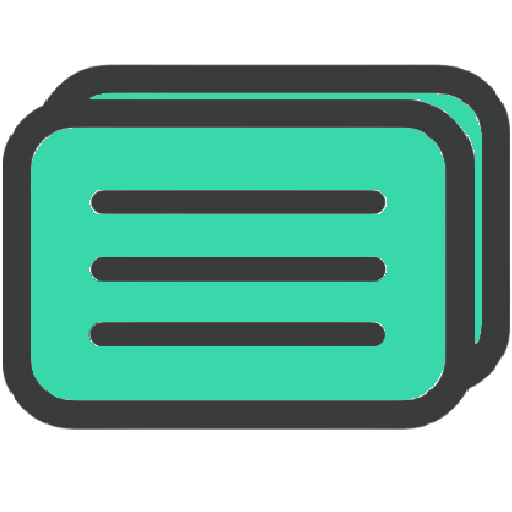
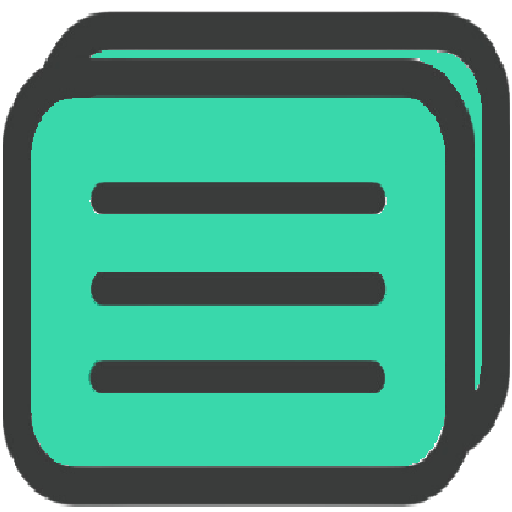
update

diff --git a/flutter_service_worker.js b/flutter_service_worker.js
@@ -50,14 +50,14 @@ const RESOURCES = {"assets/AssetManifest.bin": "22883cf4e5ba2a86c25d348004f83da9
 "canvaskit/skwasm.js": "95f16c6690f955a45b2317496983dbe9",
 "canvaskit/skwasm.wasm": "d1fde2560be92c0b07ad9cf9acb10d05",
 "canvaskit/skwasm.worker.js": "51253d3321b11ddb8d73fa8aa87d3b15",
-"favicon.png": "cb2950dae61c3525ba40535f12f2d0b0",
+"favicon.png": "b167cb4770540761cf0abcda2ee8e2fb",
 "flutter.js": "6b515e434cea20006b3ef1726d2c8894",
-"icons/Icon-192.png": "5a948d0d5390cf7d8eae904e5b41ade6",
-"icons/Icon-512.png": "55fa56e20ff32af3eab52e862508f3f6",
-"icons/Icon-maskable-192.png": "5a948d0d5390cf7d8eae904e5b41ade6",
-"icons/Icon-maskable-512.png": "55fa56e20ff32af3eab52e862508f3f6",
-"index.html": "794ec85761e260e4a4b3f960ed9b7c2a",
-"/": "794ec85761e260e4a4b3f960ed9b7c2a",
+"icons/Icon-192.png": "c4439ee4b520e2cbf29537753f9ccdfe",
+"icons/Icon-512.png": "90ce4b228fcc4eb3b7e7dd20a76b733d",
+"icons/Icon-maskable-192.png": "512eba9c77572a130437540828ee1718",
+"icons/Icon-maskable-512.png": "eb1379c9ee930baa43afb383bee30f7a",
+"index.html": "619113b9cbb008b5ac12246ef351a5be",
+"/": "619113b9cbb008b5ac12246ef351a5be",
 "main.dart.js": "6cfbef375af8e9ecdd1b42d729fb5353",
 "manifest.json": "4375be6d0ed3936c0fc984dc51b5241b",
 "version.json": "ffbc6c1d013605d384c87eb1896f5956"};

diff --git a/index.html b/index.html
@@ -34,7 +34,7 @@
 
   <script>
     // The value below is injected by flutter build, do not touch.
-    const serviceWorkerVersion = "130591448";
+    const serviceWorkerVersion = "2518922437";
   </script>
   <!-- This script adds the flutter initialization JS code -->
   <script src="flutter.js" defer></script>
